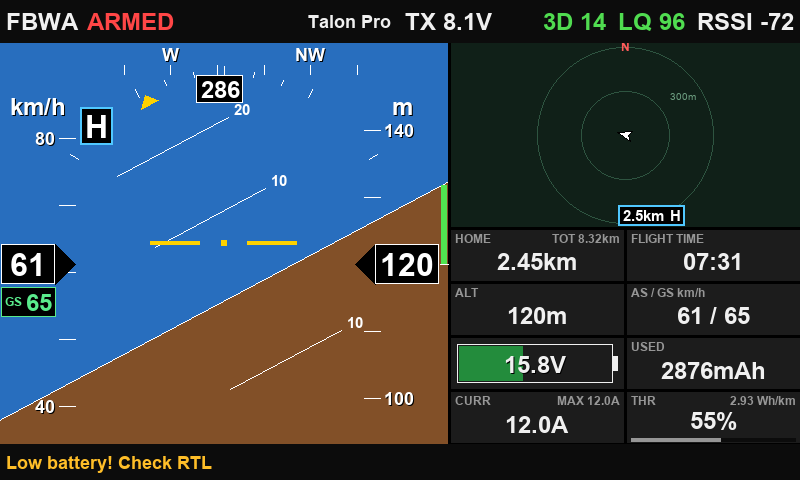
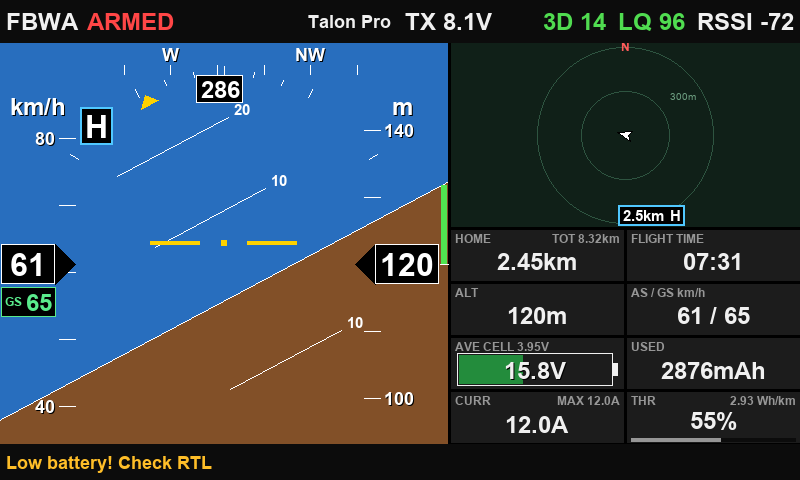
README screens for 1.0.0f
Rendered by the simulators from the 1.0.0f code (f3f9d54):
- main, main_disarmed, main_homearrow, main_ready, edgetx_main: the
  AVE CELL line above the battery gauge.
- main_x18: the logo fills its panel. edgetx_main_800x480: the TX16S MK3
  layout. edgetx_summary, edgetx_map refreshed.
- New: params_inav, params_inav_choice (INAV 9.1, FLIGHT group and a
  choice setting), params_betaflight (Betaflight 2026.6, TUNE group),
  placed in the INAV and Betaflight sections.
The ArduPilot PARAMS, mission and editor screens are unchanged.

Claude-Session: https://claude.ai/code/session_01GmoibvpnuskTtR8W3SJH59

Changed region(s): [[0.5625, 0.6875, 0.75, 0.8125], [0.75, 0.7188, 0.7812, 0.75]]

diff --git a/README.md b/README.md
@@ -469,6 +469,11 @@ WP_RADIUS | WP radius | 5
 
 ### INAV settings
 
+| | |
+|---|---|
+| ![INAV PARAMS page, FLIGHT group](docs/screens/params_inav.png) | ![INAV choice setting in the editor](docs/screens/params_inav_choice.png) |
+| INAV 9.1, FLIGHT group: CLI names, plain units. | A choice setting (`nav_rth_alt_mode`) by name, with the value before. |
+
 With INAV 9.1 or later the page reads and changes INAV settings by their CLI names, shown in plain units (degrees, m, m/s) where INAV stores decidegrees, cm and cm/s. Ranges and choice names (for example RTH alt mode AT_LEAST / MAX) come from the flight controller; a setting it doesn't have shows n/a.
 
 | Group | Settings |
@@ -488,6 +493,10 @@ With INAV 9.1 or later the page reads and changes INAV settings by their CLI nam
 - The INAV mission download pauses while the page talks to INAV.
 
 ### Betaflight settings
+
+![Betaflight PARAMS page, TUNE group](docs/screens/params_betaflight.png)
+
+Betaflight 2026.6, the TUNE group; the hint line shows the version, the PID and rate profile and the rates type.
 
 With Betaflight 4.5, 2025.12 or 2026.6 the page reads and changes 58 settings of the **active** PID and rate profile, named as in the Betaflight CLI. Choice settings show by name (TPA mode PD / D, throttle limit OFF / SCALE / CLIP).
 
